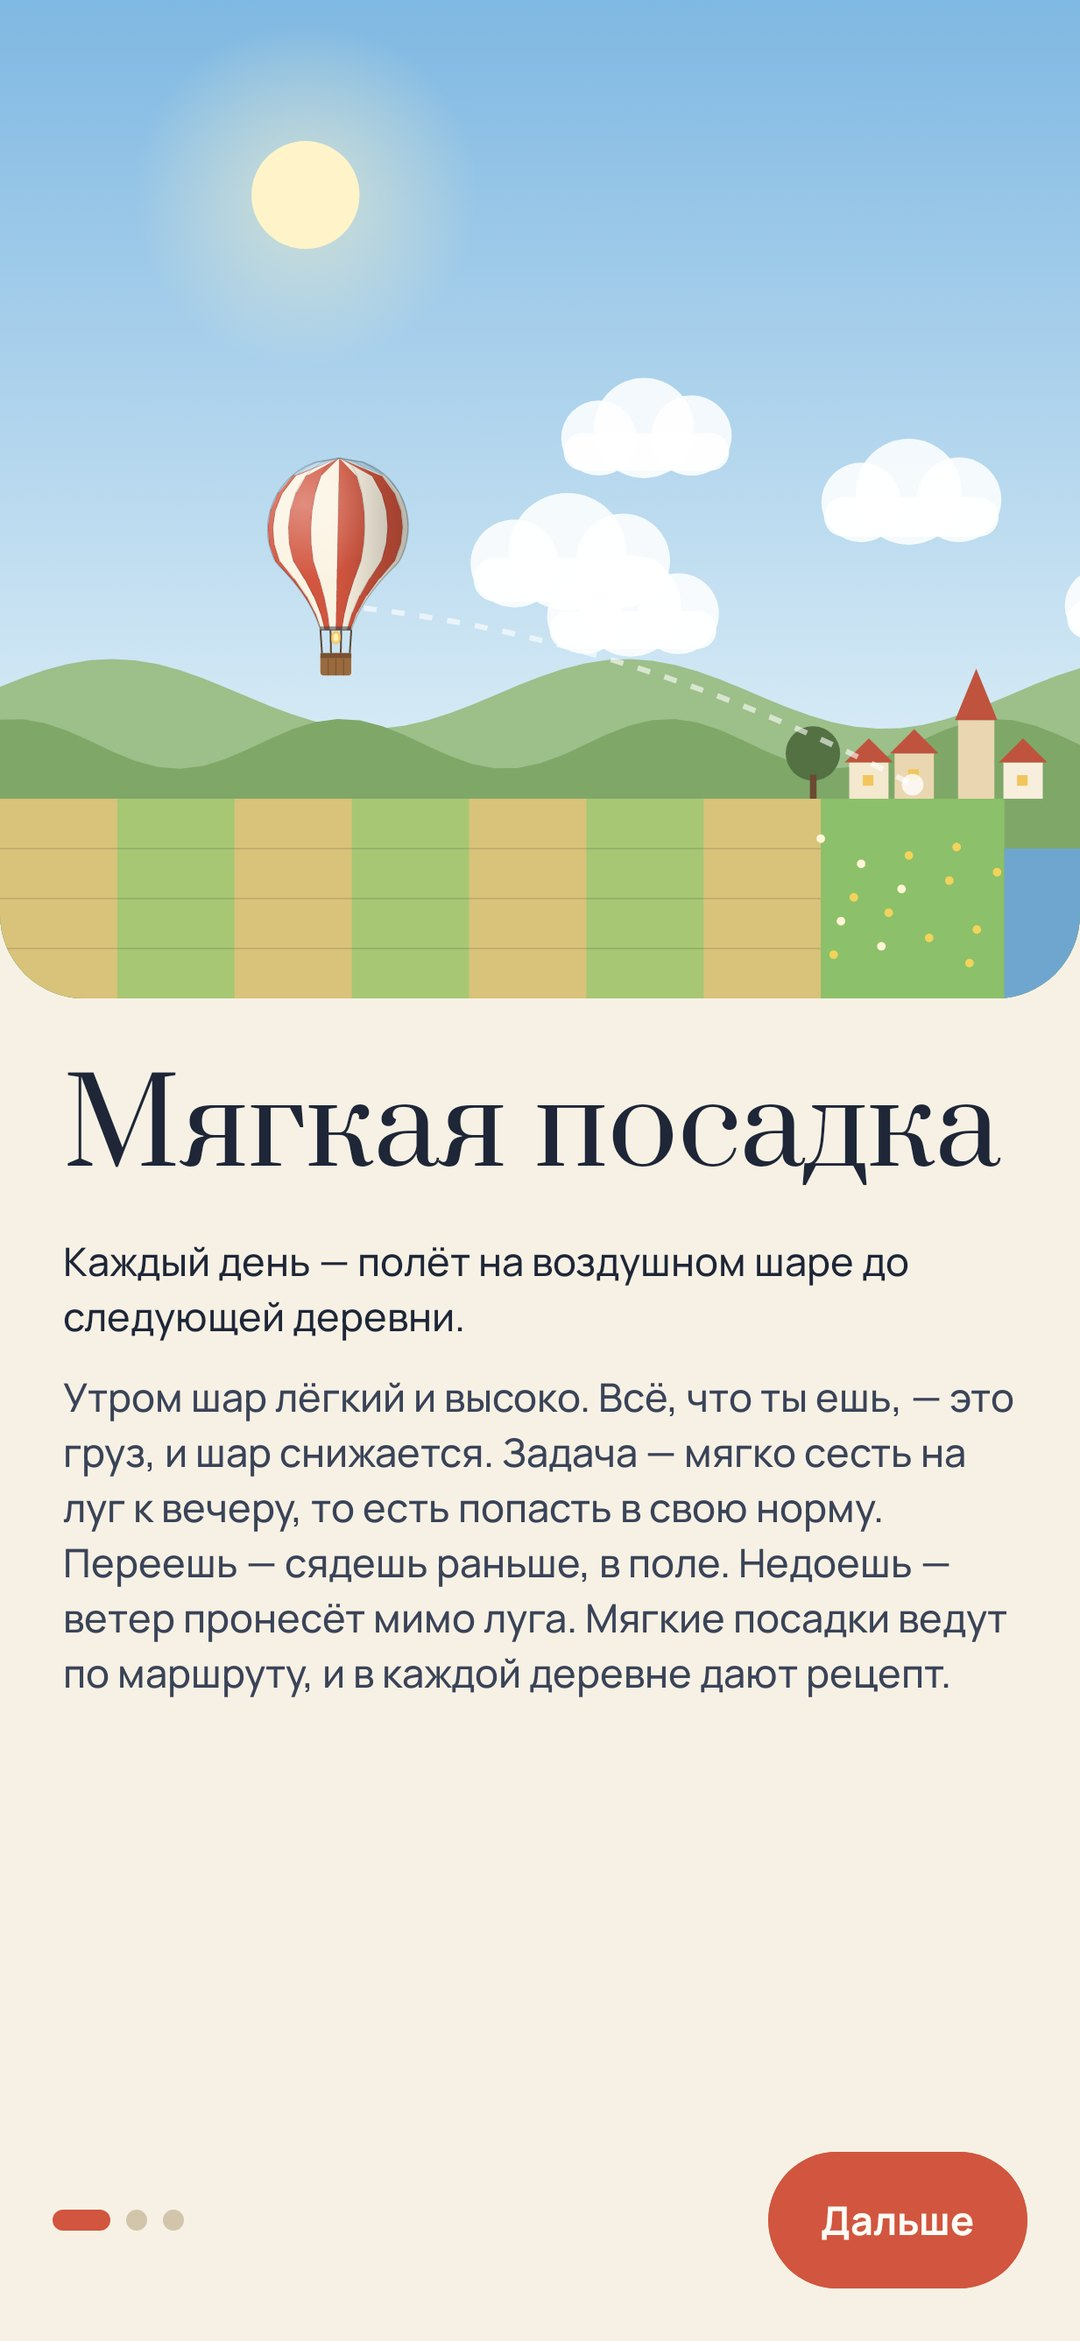
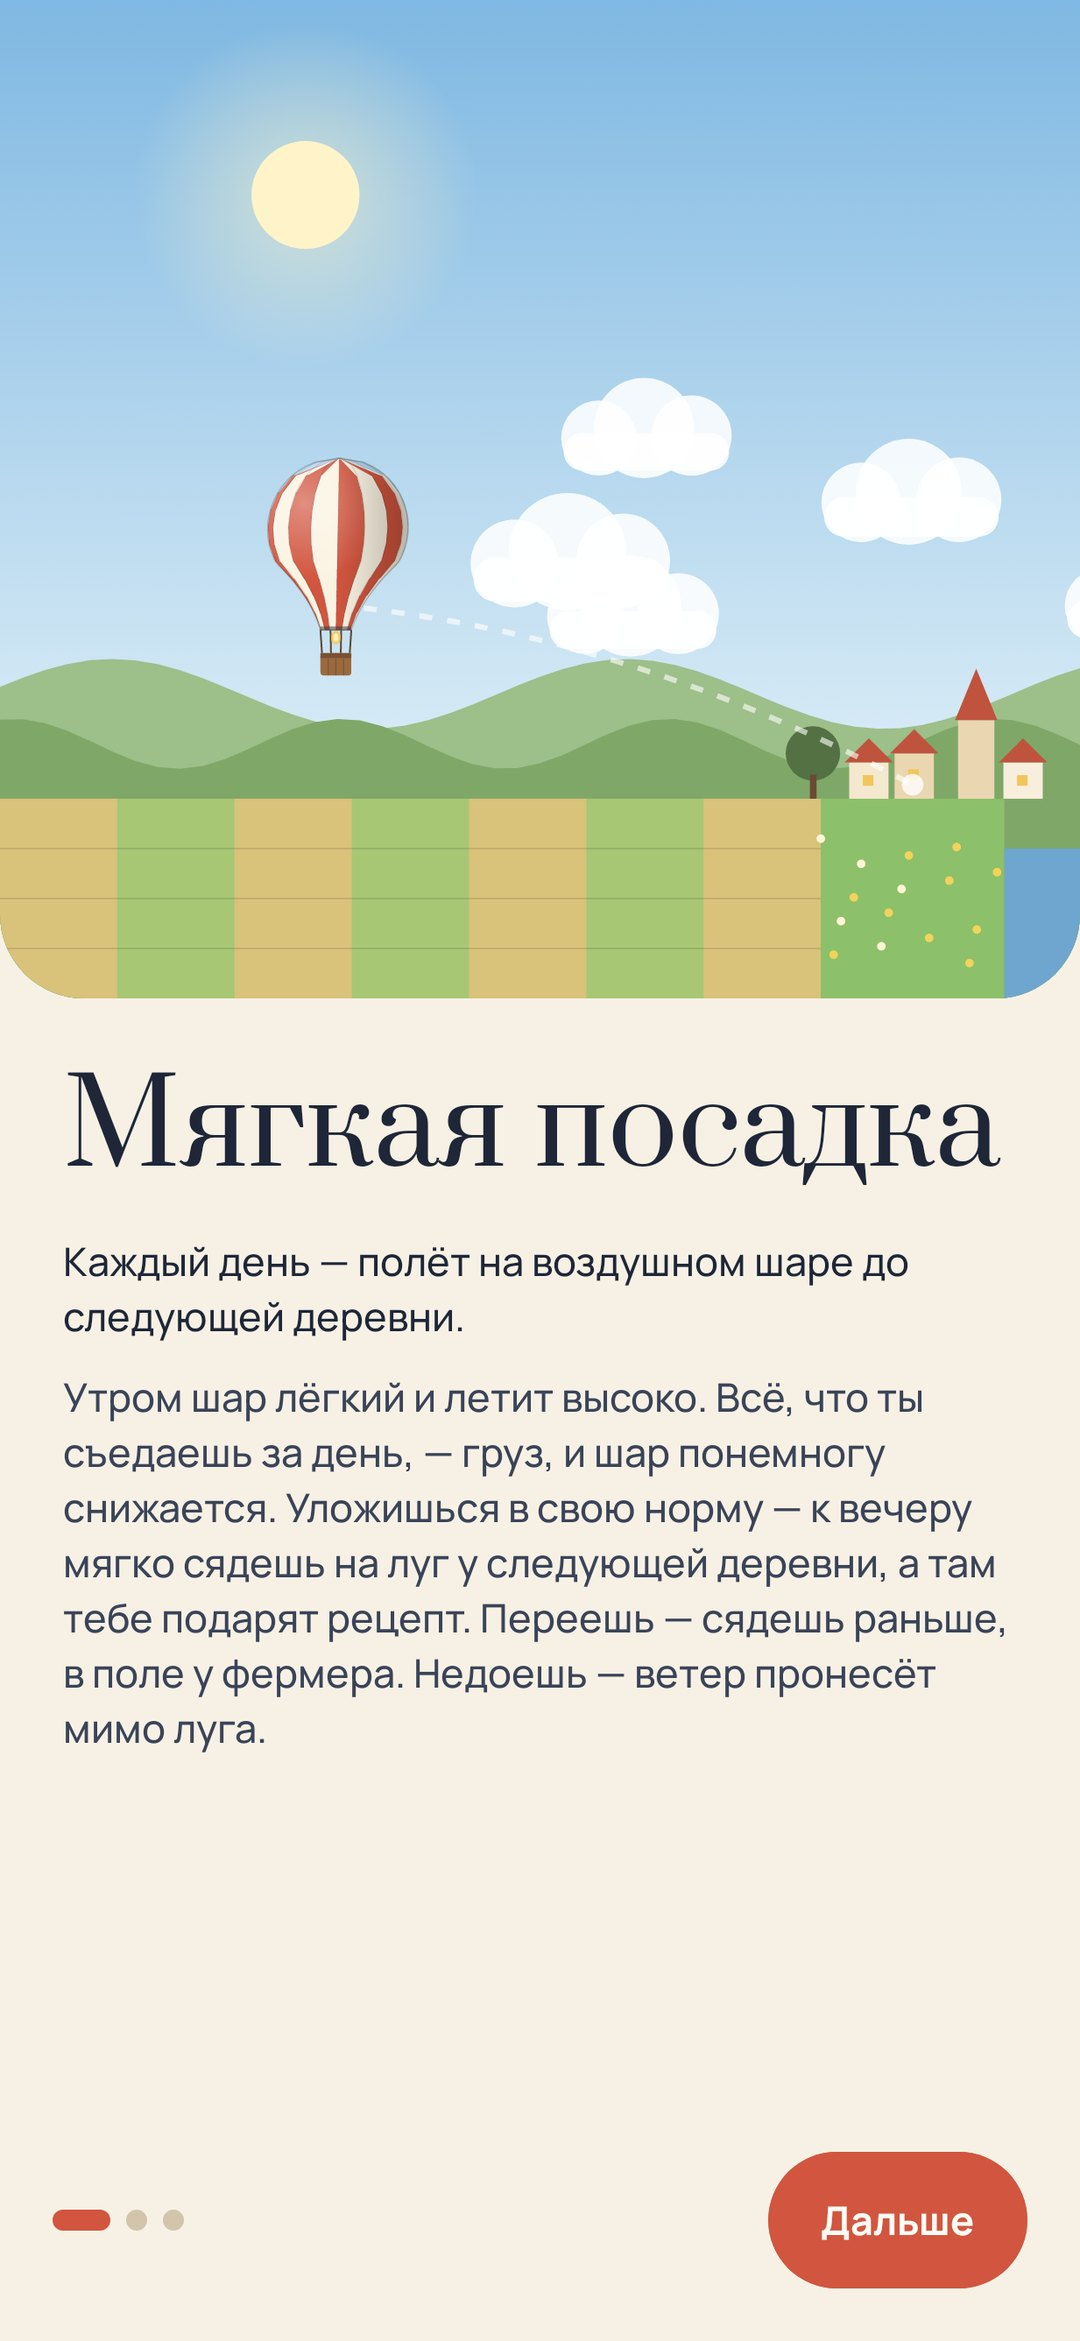
Release 1.0.1: label reading from Play services (APK 48 MB -> 5.5 MB); plainer Russian intro

Changed region(s): [[0.0611, 0.5925, 0.9472, 0.7484]]

diff --git a/tools/res.py b/tools/res.py
@@ -319,7 +319,7 @@ S = [
     ("n_light_b", "Don't forget dinner: without it the balloon drifts past the meadow.", "Не забудь записать ужин, иначе шар пролетит мимо луга."),
     # onboarding
     ("ob_1", "Every day is a balloon flight to the next village.", "Каждый день — полёт на воздушном шаре до следующей деревни."),
-    ("ob_1b", "In the morning the balloon is light and high. Each thing you eat is ballast, and the balloon comes down. The aim is to land softly on the meadow by evening: your daily norm, give or take. Too much and you come down early in a field; too little and the wind carries you past. Soft landings move you along the route, and every village gives a recipe.", "Утром шар лёгкий и высоко. Всё, что ты ешь, — это груз, и шар снижается. Задача — мягко сесть на луг к вечеру, то есть попасть в свою норму. Переешь — сядешь раньше, в поле. Недоешь — ветер пронесёт мимо луга. Мягкие посадки ведут по маршруту, и в каждой деревне дают рецепт."),
+    ("ob_1b", "In the morning the balloon is light and high. Each thing you eat is ballast, and the balloon comes down. The aim is to land softly on the meadow by evening: your daily norm, give or take. Too much and you come down early in a field; too little and the wind carries you past. Soft landings move you along the route, and every village gives a recipe.", "Утром шар лёгкий и летит высоко. Всё, что ты съедаешь за день, — груз, и шар понемногу снижается. Уложишься в свою норму — к вечеру мягко сядешь на луг у следующей деревни, а там тебе подарят рецепт. Переешь — сядешь раньше, в поле у фермера. Недоешь — ветер пронесёт мимо луга."),
     ("ob_2", "Who's flying?", "Кто летит?"),
     ("ob_2b", "This is enough to work out the norm. Everything stays on the phone.", "Этого хватит, чтобы посчитать норму. Всё остаётся на телефоне."),
     ("ob_3", "Your meadow", "Твой луг"),

diff --git a/README.ru.md b/README.ru.md
@@ -6,7 +6,7 @@
 
 ### Счётчик калорий, в котором каждый день — полёт на воздушном шаре до следующей деревни
 
-*Утром шар лёгкий и высоко, а всё, что ты ешь, — груз. Сядешь мягко на луг к вечеру, то есть попадёшь в свою норму, — долетишь до следующей деревни, и там дадут рецепт. Переешь — сядешь раньше, в поле у фермера. Недоешь — ветер пронесёт мимо. Записывать быстро: штрихкод, фото этикетки, целый приём пищи одной строкой. Бесплатно, без рекламы и регистрации.*
+*Утром шар лёгкий и летит высоко. Всё, что ты съедаешь за день, — груз, и шар понемногу снижается. Уложишься в свою норму — к вечеру мягко сядешь на луг у следующей деревни, а там тебе подарят рецепт. Переешь — сядешь раньше, в поле у фермера. Недоешь — ветер пронесёт мимо луга. Еду записывать быстро: отсканируй штрихкод, сфотографируй этикетку или впиши весь обед одной строкой. Бесплатно, без рекламы и регистрации.*
 
 [English](README.md) · **Русский** · [Изменения](CHANGELOG.md)
 

diff --git a/CHANGELOG.md b/CHANGELOG.md
@@ -6,6 +6,14 @@ line "<!-- tg", then 2-4 short lines in Russian for users (what is new, what is 
 then close it like any HTML comment. The release notes carry it, and the chat bot posts those lines.
 -->
 
+## [1.0.1] - 2026-10-31
+
+### Changed
+- Label reading now comes from Google Play services, like the barcode scanner: the APK is 5.5 MB instead of 48 MB.
+- Plainer Russian on the welcome screen.
+
+<!-- tg skip -->
+
 ## [1.0.0] - 2026-10-31
 
 ### Added
